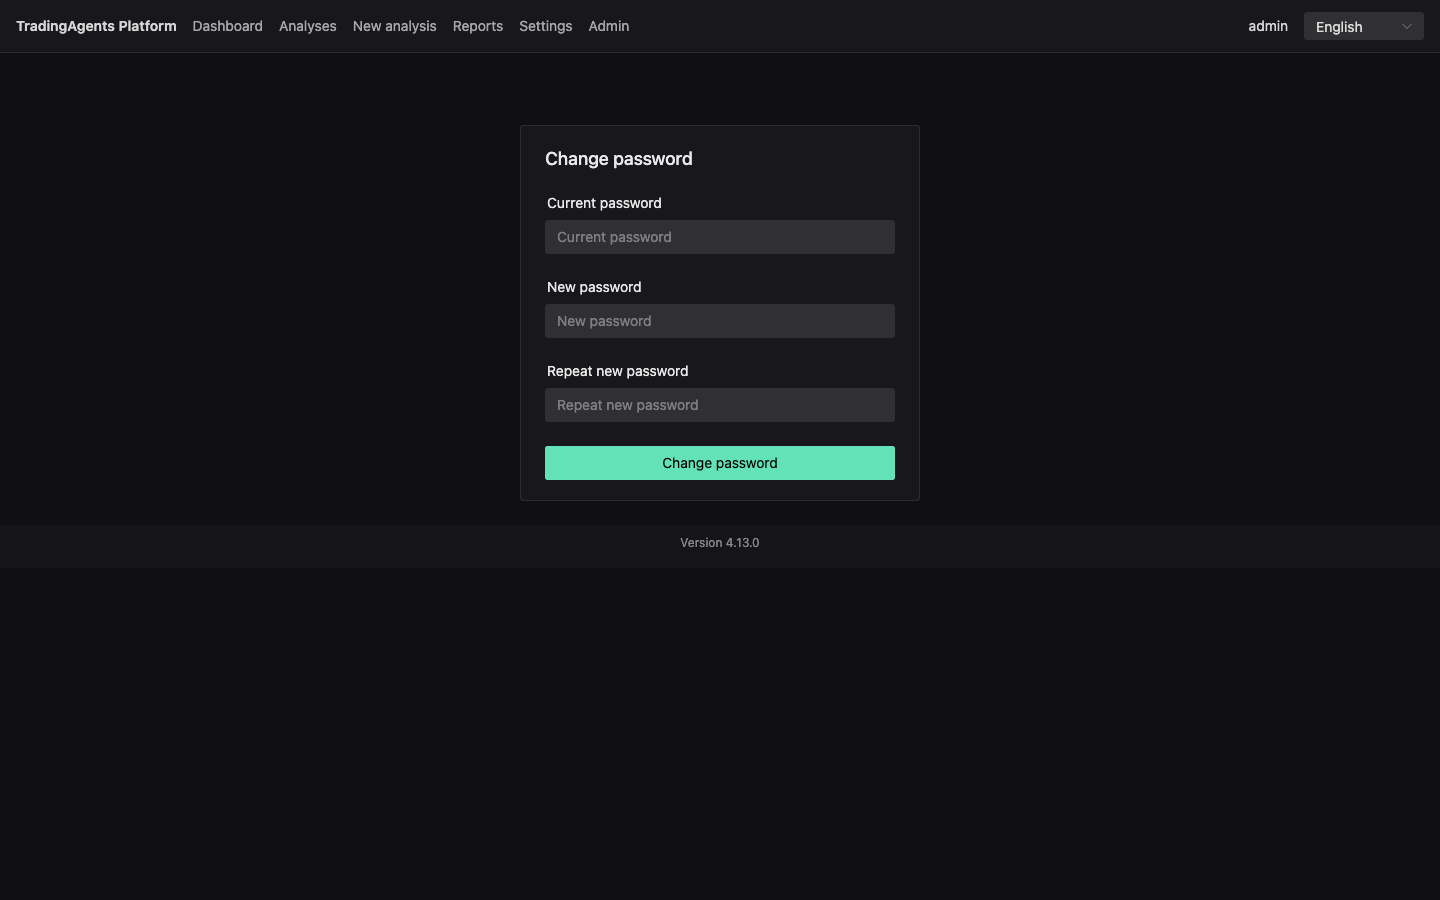
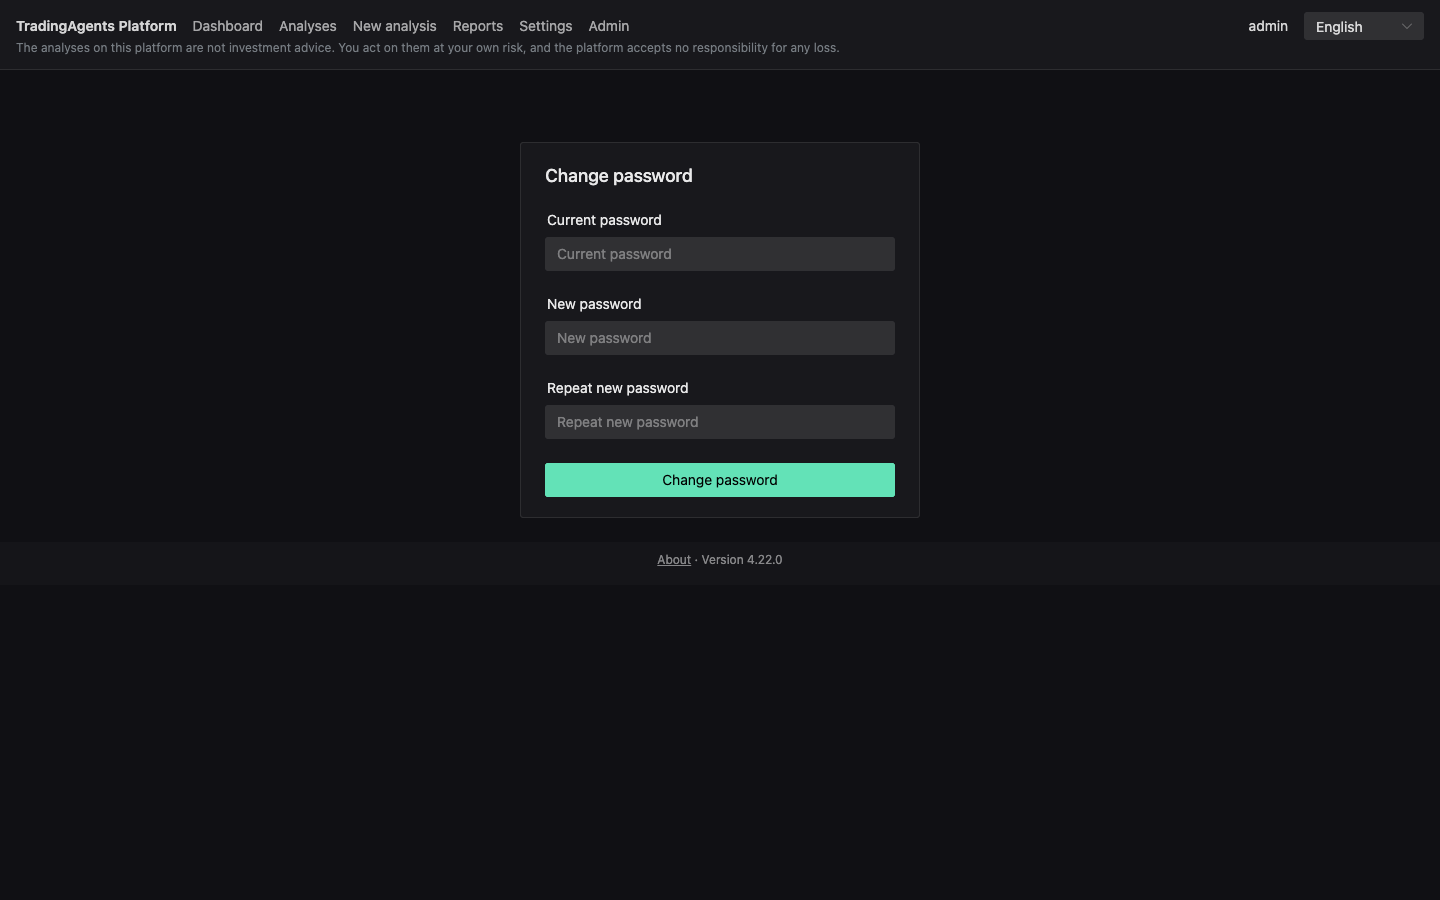
About screenshot, retaken page screenshots and docs
Work-package: WP4

Changed region(s): [[0.375, 0.1556, 0.625, 0.56], [0.0312, 0.0311, 0.5625, 0.0622], [0.4688, 0.5911, 0.5312, 0.6222]]

diff --git a/README.md b/README.md
@@ -420,6 +420,14 @@ user's other sessions out; the current session continues.
 
 ![The change-password page](docs/screenshots/change-password.png)
 
+Investment disclaimer: every page, the login page included, shows a short, muted line under the
+header: the analyses are not investment advice, acting on them is at the user's own risk, and the
+platform accepts no responsibility for any loss. The About page (`/about`, linked from the footer
+and the login page) shows the full text and opens without a login. The wording is `app.disclaimer`
+in the translation files, shown by the `DisclaimerNotice` component.
+
+![The About page](docs/screenshots/about.png)
+
 The backend:
 
 - `POST /api/auth/login` (`username`, `password`) answers 200 with the user, their roles and

diff --git a/docs/coding-convention/frontend-folder-structure.md b/docs/coding-convention/frontend-folder-structure.md
@@ -63,7 +63,7 @@ app  ->  pages  ->  features  ->  shared
 | Backend call | `features/<feature>/api.ts`, as a method of `<feature>Api` |
 | State shared across pages | `features/<feature>/store.ts` (Pinia) |
 | Component of one feature | `features/<feature>/components/` |
-| Component with no feature knowledge | `shared/ui/` |
+| Component with no feature knowledge | `shared/ui/` (e.g. `DisclaimerNotice`) |
 | Composable of one feature | `features/<feature>/composables/` |
 | Generic composable | `shared/composables/` |
 | Pure logic (parsing, derived view data) | `features/<feature>/model/`, without Vue or HTTP imports |
